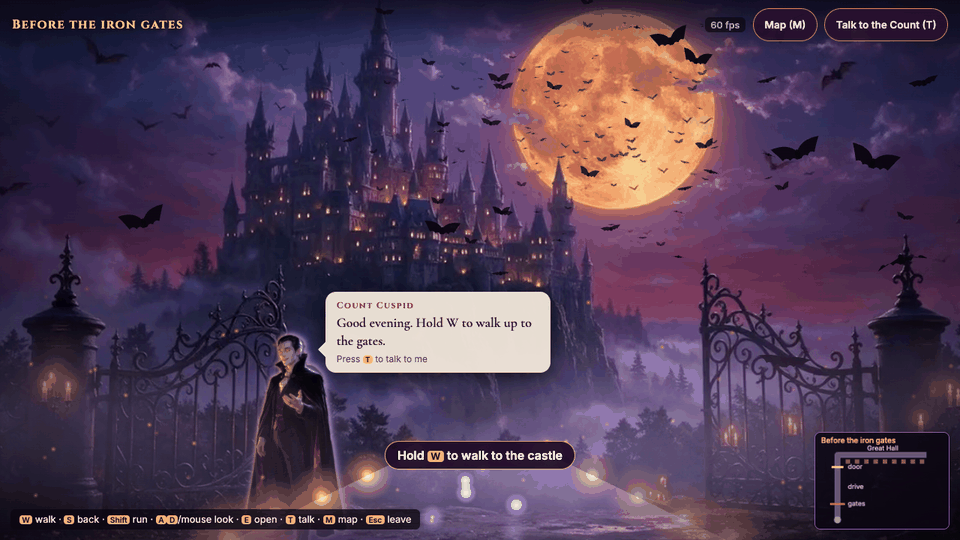
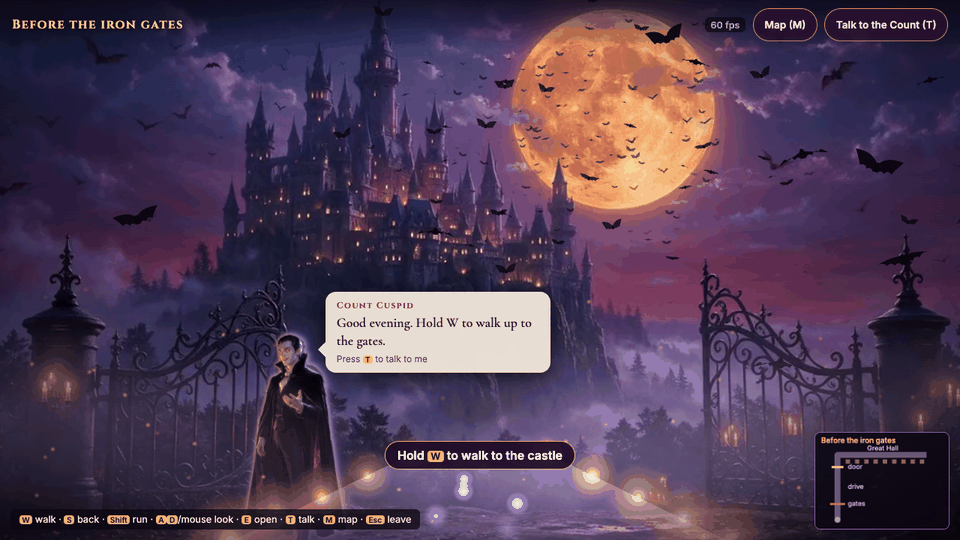
UI polish proof: site/docs/ui_polish.md (WebKit desktop + iPhone results, before/after walk, clip seam numbers); scripts/ui_e2e.py and ui_seams.py; open panel hides the bubble and board

diff --git a/site/game/walk.css b/site/game/walk.css
@@ -119,3 +119,6 @@
   .m-board dt { font-size: .6rem; line-height: 1.15; } .m-board dd { font-size: .85rem; margin: 0; }
   .m-board h3 { font-size: .65rem; margin-bottom: .15rem; }
 }
+/* an open panel hides the Count's bubble and the savings board behind it */
+.m-root:has(.m-panel:not([hidden])) .m-say, .m-root:has(.m-panel:not([hidden])) .m-board { visibility: hidden; }
+.m-panel { background: #170a1cf5; }

diff --git a/scripts/ui_e2e.py b/scripts/ui_e2e.py
@@ -1,0 +1,96 @@
+"""The castle e2e on Playwright. Usage: scripts/ui_e2e.py webkit|chromium desktop|iphone (needs `pip install playwright` and `playwright install webkit`; the page must be up on 127.0.0.1:8765). Writes bench/.scratch/ui/e2e_<browser>_<view>.json"""
+import json, sys, time
+from pathlib import Path
+from playwright.sync_api import sync_playwright
+
+ROOT = Path(__file__).resolve().parent.parent
+OUT = ROOT / 'bench/.scratch/ui'
+OUT.mkdir(parents=True, exist_ok=True)
+B = 'http://127.0.0.1:8765/'
+R = []
+
+
+def check(name, ok, detail=''):
+    R.append({'check': name, 'ok': bool(ok), 'detail': str(detail)})
+    print('PASS' if ok else 'FAIL', name, detail, flush=True)
+
+
+def main(browser, view):
+    with sync_playwright() as pw:
+        bt = getattr(pw, browser)
+        b = bt.launch()
+        if view == 'iphone':
+            ctx = b.new_context(**pw.devices['iPhone 13'])
+        else:
+            ctx = b.new_context(viewport={'width': 1280, 'height': 760})
+        p = ctx.new_page()
+        errs = []
+        p.on('pageerror', lambda e: errs.append(str(e)))
+        p.goto(B); time.sleep(5)
+        js = p.evaluate
+        S = 'MovieGame.state'
+        check('game started', js('!!window.MovieGame'), js('navigator.userAgent'))
+        check('no horizontal overflow', js('document.documentElement.scrollWidth <= innerWidth + 1'), js('document.documentElement.scrollWidth + " vs " + innerWidth'))
+        check('clip a-approach can play', js('MovieGame.have["a-approach"]'), js('document.getElementById("m-v0").canPlayType("video/mp4")'))
+        t0 = js(f'{S}.t')
+        if view == 'iphone':
+            r = js("(()=>{const b=document.getElementById('m-joy').getBoundingClientRect();return [b.left+b.width/2,b.top+b.height/2]})()")
+            p.mouse.move(r[0], r[1]); p.mouse.down(); p.mouse.move(r[0], r[1] - 45, steps=4)
+            time.sleep(2.5); joy = js(f'{S}.joy.y'); p.mouse.up()
+            t1 = js(f'{S}.t')
+            check('joystick walks', joy < -0.3 and t1 > t0 + 0.5, f'joy.y={joy} t {t0:.2f}->{t1:.2f}')
+        else:
+            p.keyboard.down('w'); time.sleep(2.5); p.keyboard.up('w')
+            t1 = js(f'{S}.t'); check('W walks forward', t1 > t0 + 0.5, f't {t0:.2f}->{t1:.2f}')
+            p.keyboard.down('s'); time.sleep(1.0); p.keyboard.up('s')
+            t2 = js(f'{S}.t'); check('S walks back', t2 < t1, f't {t1:.2f}->{t2:.2f}')
+            p.keyboard.down('d'); time.sleep(0.3); p.keyboard.up('d')
+            check('A/D look moves yaw', js(f'Math.abs({S}.yaw) > 0.001'), js(f'{S}.yaw'))
+        js('MovieGame.jump(0,true)'); time.sleep(1)
+        if view == 'iphone':
+            p.tap('#m-act')
+        else:
+            p.keyboard.press('e')
+        time.sleep(0.5); check('E opens the gates', js(f'!!{S}.open.gates'))
+        js('MovieGame.jump(3,true)'); time.sleep(1); p.keyboard.press('e'); time.sleep(0.5)
+        check('E opens the great door', js(f'!!{S}.open.door'))
+        js('MovieGame.jump(4,true)'); time.sleep(1.5); js('MovieGame.enterHall()'); time.sleep(3)
+        check('hall shows doors', js("!document.getElementById('m-doors').hidden"))
+        board = js("document.getElementById('m-board').innerText")
+        check('savings board has live totals', 'Tokens kept off' in board, board.replace('\n', ' | ')[:160])
+        names = js("[...document.querySelectorAll('.m-door strong')].map(e=>e.textContent)")
+        for room in ['The Ledger', 'The Ladder', 'The Observatory']:
+            k = names.index(room)
+            js(f'{S}.door={k}; document.querySelectorAll(".m-door")[{k}].click()'); time.sleep(7)
+            txt = js("document.getElementById('m-ptitle').textContent")
+            check(f'opens {room}', txt == room, txt)
+            d = js("(()=>{const f=document.querySelector('.m-dash');try{return f?f.contentDocument.body.innerText.length:0}catch(e){return -1}})()")
+            check(f'{room} dashboard has content', d > 300, d)
+            p.screenshot(path=str(OUT / f'pw_{browser}_{view}_{room.split()[-1]}.png'))
+            p.keyboard.press('Escape'); time.sleep(1.2)
+            check(f'Esc leaves {room}', js(f'!{S}.panel && !{S}.room'))
+            js('MovieGame.enterHall()'); time.sleep(0.5)
+        p.keyboard.press('m'); time.sleep(0.5); check('M opens the map', js(f'{S}.map'))
+        p.keyboard.press('Escape'); time.sleep(0.5); check('Esc closes the map', js(f'!{S}.map'))
+        check('minimap drawn', js("(()=>{const c=document.getElementById('m-mini');const d=c.getContext('2d').getImageData(0,0,c.width,c.height).data;let n=0;for(let i=3;i<d.length;i+=4)if(d[i])n++;return n>500&&c.getBoundingClientRect().width>0})()"))
+        p.keyboard.press('t'); time.sleep(1.5); check('T opens the Count chat', js(f'!!{S}.panel'))
+        q = 'What is the capital of Italy?'
+        p.fill('#c-in', q); p.press('#c-in', 'Enter')
+        for _ in range(1500):
+            time.sleep(0.2)
+            if js("!document.getElementById('c-send').disabled"):
+                break
+        time.sleep(1)
+        ans = js("document.getElementById('m-pbody').innerText")
+        check('Count answers a real question', 'Rome' in ans, ans[-160:].replace('\n', ' | '))
+        p.screenshot(path=str(OUT / f'pw_{browser}_{view}_chat.png'))
+        p.keyboard.press('Escape'); time.sleep(5)
+        f = sorted(js('MovieGame.fps()') or [0])
+        med = f[len(f) // 2]
+        check('50+ fps (median)', med >= 50, f'median {med:.1f}, min {f[0]:.1f}, n={len(f)}')
+        check('no page errors', not errs, '; '.join(errs)[:300])
+        b.close()
+    (OUT / f'e2e_{browser}_{view}.json').write_text(json.dumps(R, indent=1))
+
+
+main(sys.argv[1], sys.argv[2])

diff --git a/scripts/ui_seams.py b/scripts/ui_seams.py
@@ -1,0 +1,101 @@
+"""Clip smoothness and seams on WebKit (Playwright) and Chrome (CDP). Usage: scripts/ui_seams.py webkit|chrome (rerun when a clip lands in site/game/clips/)
+For every clip in site/game/clips/: frames shown per second while W is held (requestVideoFrameCallback or
+currentTime changes), distinct positions per second while S is held, and the pixel jump at each joint: the mean absolute
+difference (0-255) of the screen, every live layer hidden, before and after the next stretch takes over."""
+import asyncio, json, sys, time
+from pathlib import Path
+ROOT = Path(__file__).resolve().parent.parent
+OUT = ROOT / 'bench/.scratch/ui'
+OUT.mkdir(parents=True, exist_ok=True)
+B = 'http://127.0.0.1:8765/'
+
+PROBE = """async (args) => {
+  const [mode, secs] = args, S = MovieGame.state, v = () => document.querySelectorAll('#m-stage > video')[S.seg % 2];
+  const seen = new Set(); let frames = 0, stalls = 0, last = performance.now(), lastT = -1;
+  const t0 = performance.now();
+  await new Promise((res) => { const step = () => { const now = performance.now(), ct = +v().currentTime.toFixed(3);
+      if (ct !== lastT) { seen.add(ct); frames++; lastT = ct; if (now - last > 120) stalls++; last = now; }
+      if (now - t0 < secs * 1000) requestAnimationFrame(step); else res(); }; requestAnimationFrame(step); });
+  return { mode, per_s: frames / secs, distinct: seen.size, stalls, t: S.t, seg: S.seg };
+}"""
+HIDE = """(on) => { ['#m-fx', '.m-veil', '.m-anchor', '.m-say', '.m-prompt', '.m-bar', '#m-mini', '.m-help', '.m-fade', '.m-doors', '.m-board'].forEach((s) => document.querySelectorAll(s).forEach((e) => { e.style.visibility = on ? 'hidden' : ''; })); }"""
+async def grab(js, shot):
+    """The screen with every live layer hidden, as a 64x36 thumbnail: what you actually see of the painting."""
+    import io
+    from PIL import Image
+    await js(f'({HIDE})(true)'); await asyncio.sleep(0.3)
+    png = await shot()
+    await js(f'({HIDE})(false)')
+    return list(Image.open(io.BytesIO(png)).convert('RGB').resize((64, 36)).tobytes())
+
+
+def mad(a, b):
+    return None if a is None or b is None else round(sum(abs(x - y) for x, y in zip(a, b)) / len(a), 1)
+
+
+async def run(js, key, browser, shot):
+    have = await js('JSON.stringify(MovieGame.have)')
+    have = json.loads(have)
+    rows = []
+    segs = await js('MovieGame.segs.map(s=>s.id)')
+    for i, sid in enumerate(segs):
+        if not have.get(sid):
+            continue
+        await js(f'MovieGame.jump({i}, false)'); await asyncio.sleep(1.2)
+        await key('w', True); await asyncio.sleep(0.3)
+        w = await js(f'({PROBE})(["W", 2.5])'); await key('w', False); await asyncio.sleep(0.3)
+        await key('s', True); s = await js(f'({PROBE})(["S", 1.5])'); await key('s', False)
+        # the joint into the next stretch: the last frame of this clip vs the first of the next
+        await js(f'MovieGame.jump({i}, true)'); await asyncio.sleep(3.5)
+        a = await grab(js, shot)
+        if i + 1 < len(segs):
+            await js(f'MovieGame.jump({i + 1}, false)'); await asyncio.sleep(1.5)
+            b = await grab(js, shot)
+        else:
+            b = None
+        # the same joint reached by walking: hold W to the end of the clip, then E (a gate or door) or keep walking
+        walked = None
+        if i + 1 < len(segs):
+            await js(f'MovieGame.jump({i}, false)'); await asyncio.sleep(1.5)
+            d = await js(f'document.querySelectorAll("#m-stage > video")[{i % 2}].duration')
+            await key('w', True); await asyncio.sleep(d + 1.0); await key('w', False); await asyncio.sleep(0.6)
+            c = await grab(js, shot)
+            if await js(f'MovieGame.state.seg') == i:
+                await key('e', True); await key('e', False)
+            await asyncio.sleep(1.5)
+            e = await grab(js, shot)
+            walked = {'stopped_at_t': await js('MovieGame.state.t'), 'seg_after': await js('MovieGame.state.seg'), 'mad': mad(c, e)}
+        rows.append({'browser': browser, 'clip': sid, 'W': w, 'S': s, 'joint_to': segs[i + 1] if i + 1 < len(segs) else None, 'joint_mad': mad(a, b), 'walked_joint': walked})
+        print(json.dumps(rows[-1]), flush=True)
+    return rows
+
+
+async def chrome():
+    sys.path.insert(0, str(ROOT / 'scripts'))  # cdp.py
+    from cdp import Page
+    p = await Page.open(B, 1280, 720, extra=['--use-angle=metal'])
+    await asyncio.sleep(6)
+    async def js(e): return await p.js(e)
+    async def key(k, down): await p.key(k, down)
+    rows = await run(js, key, 'chrome', p.shot)
+    await p.close()
+    return rows
+
+
+async def webkit():
+    from playwright.async_api import async_playwright
+    async with async_playwright() as pw:
+        b = await pw.webkit.launch(); p = await b.new_page(viewport={'width': 1280, 'height': 720}); await p.goto(B); await asyncio.sleep(6)
+        async def js(e):
+            return await p.evaluate(e)
+        async def key(k, down):
+            await (p.keyboard.down if down else p.keyboard.up)(k)
+        rows = await run(js, key, 'webkit', p.screenshot)
+        await b.close()
+    return rows
+
+
+if __name__ == '__main__':
+    which = sys.argv[1]
+    rows = asyncio.run(chrome() if which == 'chrome' else webkit())
+    (OUT / f'seam_{which}.json').write_text(json.dumps(rows, indent=1))

diff --git a/site/docs/ui_polish.md b/site/docs/ui_polish.md
@@ -1,0 +1,76 @@
+# UI polish: Safari, a walk that feels like the paintings, clean clip joints
+
+Captured 2026-11-15 from http://127.0.0.1:8765 (the one page, `make web`, kept up by `make web-keep`).
+Screens: headless Chrome over DevTools (`scripts/cdp.py`) at 1280x720, and Playwright WebKit 27.2 (the Safari engine) at 1280x760 and as an iPhone 13 (390x844, touch).
+
+## 1. Safari / WebKit
+
+Playwright WebKit was installed in the repo venv (`pip install playwright`, `playwright install webkit`, 82 MB in `~/Library/Caches/ms-playwright`). The check is `scripts/ui_e2e.py webkit desktop|iphone`.
+
+**Found and fixed:** the server answered `HEAD` with 501 and sent no byte ranges. The walk asks for each clip with `HEAD`, so it never found `a-approach.mp4`, and every stretch played the still dolly in every browser. Safari also needs byte ranges to play a video at all. `apps/phantom-phone/hud-web/server.py` now serves `HEAD` and `Range: bytes=` (206, 416) for static files (`byte_range()`, test in `tests/test_hud.py`). Commit 8393db3.
+
+| Check | WebKit desktop | WebKit iPhone 13 | Chrome desktop | Chrome phone 390 px |
+|---|---|---|---|---|
+| Page starts, no sideways scroll | pass | pass | pass | pass |
+| Clip a-approach found and playing | pass | pass | pass | pass |
+| W walks / S back / A-D look | 0 → 2.49 s, back to 1.48 s, yaw 0.44 | joystick: 0 → 2.45 s | pass | joystick pass |
+| E opens gates and great door | pass | pass (E button) | pass | pass |
+| Hall doors, savings board live | pass | pass | pass | pass |
+| Ledger, Ladder, Observatory open with E; dashboard inside | pass (4,726 / 1,367 / 5,379 chars) | pass | pass | pass |
+| Esc leaves, M map, minimap drawn | pass | pass | pass | pass |
+| Count chat (T), one real question | "capital of Italy": answered, exact cache hit | same | "capital of France": Paris | pass |
+| Frames per second (median, min) | 100, 93.6 | 100, 89.6 | 60, 57.8 | 60, 58.0 |
+| Page errors | none | none | none | none |
+| Checks passed | 26 / 26 | 24 / 24 | 24 / 24 | 22 / 22 |
+
+WebKit headless runs unthrottled, so it shows 100 fps; Chrome is held to the 60 Hz frame clock.
+
+![WebKit desktop chat](polish_webkit_desktop_chat.png)
+![WebKit iPhone chat](polish_webkit_iphone_chat.png) ![WebKit iPhone Ledger](polish_webkit_iphone_ledger.png)
+
+On the iPhone the Count's bubble used to show through an open panel. Now an open panel hides the bubble and the savings board.
+
+## 2. The walk, before and after
+
+| Stretch | Before | After |
+|---|---|---|
+| The landing | ![](polish_before_1_landing.png) | ![](polish_after_1_landing.png) |
+| At the gates | ![](polish_before_2_at_gates.png) | ![](polish_after_2_at_gates.png) |
+| The lantern drive | ![](polish_before_3_drive.png) | ![](polish_after_3_drive.png) |
+| The great door | ![](polish_before_4_door.png) | ![](polish_after_4_door.png) |
+| Walking into the hall | ![](polish_before_5_hall_walk.png) | ![](polish_after_5_hall_walk.png) |
+| The hall doors | ![](polish_before_6_hall_doors.png) | ![](polish_after_6_hall_doors.png) |
+| iPhone: landing, hall | (no before shot) | ![](polish_after_iphone_landing.png) ![](polish_after_iphone_hall.png) |
+
+What changed (`site/game/scene.js`, new; small hooks in `site/game/walk.js` and `walk.css`):
+
+- **The path to the gates is easy to see.** A moonlit band of ground runs from your feet to the gap between the gates. Lantern glows sit along both edges, and small wisps drift up it toward the gate. They follow the clip's forward zoom and fade as you reach the gates.
+- **The lantern drive is a real drive.** Before, the drive was a zoom into the landing painting, with no path in it. It is now a new painting, `site/art/drive.webp`. A wet cobbled road leads between lamp posts and over a stone bridge to the castle's gold-rimmed door. The great-door stretch zooms into that same door, so the drive and the door join up.
+- **The Count stands in the scene.** He was a parchment box in the corner. Now he is a full-length figure (`site/art/count-full.webp`, cut out offline by `scripts/cut_count.py` into `site/game/layers/count-full.webp`). He stands on the ground of each stretch and moves with the painting's own zoom. Candle light falls on one side of him and moonlight on the other. Fog covers his feet, and a soft shadow sits under him. His bubble hangs by his head, with a tail. You walk past him at the gates and on the drive, and he waits for you in the Great Hall. If the cut-out cannot load, the old half-length cut-out shows instead.
+- **The Great Hall feels huge.** Slow shafts of moonlight come down from the tall windows, with dust drifting in them. The painting slowly drifts in, over 28 s, and never stops. The gold doors no longer sit in one flat row. On wide screens they stand along both walls in perspective and get smaller toward the far end of the hall. They are placed on the painting, so they move with it. The far doors show their sign when you choose them. On a phone the doors form a two-row arcade. The chosen door's sign is readable, and the savings board turns into one strip above the doors.
+- Animation is always on. Nothing pauses, and the Halloween/Standard toggle and the minimap are unchanged.
+
+New art: 3 Seedream 5.0 Pro images on GMI with 3 MiniMax-M3 prompt rewrites (`scripts/gen_art.py --enrich drive count-full`). The Count was painted twice, because the first one had a beard. The prompts are in `site/art/prompts.json`. The images are logged in `site/art/README.md`. No GMI video was used.
+
+## 3. The clips: W, S and the joints
+
+Only one clip exists so far: `site/game/clips/a-approach.mp4` (8.04 s, 24 fps, H.264, a keyframe every 6 frames). The video chat has not landed b-gates through e-hall or the room clips yet. The check is `scripts/ui_seams.py webkit|chrome`. It reads every clip in `site/game/clips/`, so rerun it when a clip lands.
+
+| | Chrome | WebKit |
+|---|---|---|
+| W held 2.5 s: clip clock moved every screen frame, gaps over 120 ms | 0 | 0 |
+| S held 1.5 s: positions shown per second, gaps over 120 ms | 31, 0 | 42, 0 |
+| Joint a-approach → b-gates, screen jump (mean abs. difference of 255), before fix | 25.0 to 28.3 | 24.0 to 29.2 |
+| The same joint after the fix, by map jump and by walking to the gate + E | 0.0 / 0.0 | 0.0 / 0.0 |
+
+**Seam found and fixed** (commit 63b1d2e): b-gates has no clip yet, so it played a still of a-approach's last frame (`a-approach-last.jpg`). The browser decodes that JPEG with other colours than the video frame, which gave a visible jump (mean RGB 63/54/69 against 58/48/63). Now, when a still stretch's keyframe is the last frame of the clip before it, the walk keeps that clip's own video, paused on its last frame, and moves the dolly on it. The jump is now 0. A second fix: a map jump that came in while the video was seeking did not land. Jumps now always land.
+
+When b-gates lands, a-approach → b-gates becomes video to video, and this hold is no longer used.
+
+## Not checked, and known limits
+
+- Real Safari on a real iPhone was not used. Only the Playwright WebKit engine was tested, with iPhone emulation.
+- Joints between clips (video to video) are untested, because there is only one clip so far.
+- The Count's place in each stretch is set by hand in `SPOT` in `scene.js`. The landing's zoom follows `a-approach.mp4` (`CLIP_ZOOM`), so a remade clip with a different camera path needs that number retuned. `shortcut: hand-placed, retune when a clip is remade.`
+- On the phone the hint bar and the joystick still overlap a little at the bottom.
+- `make test`: 220 passed (4 xfail). `python3 site/build.py --check` passes.
